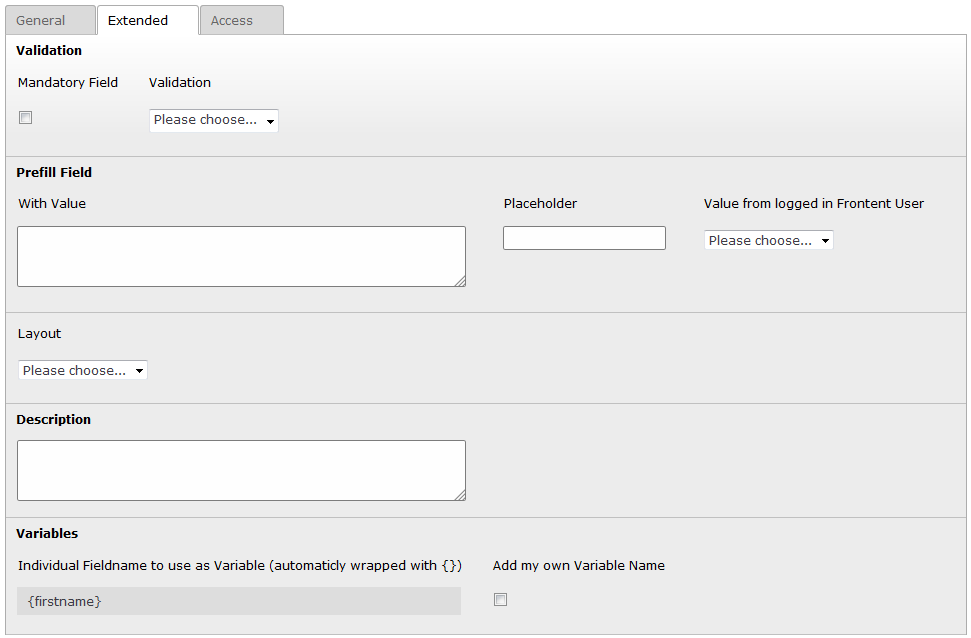
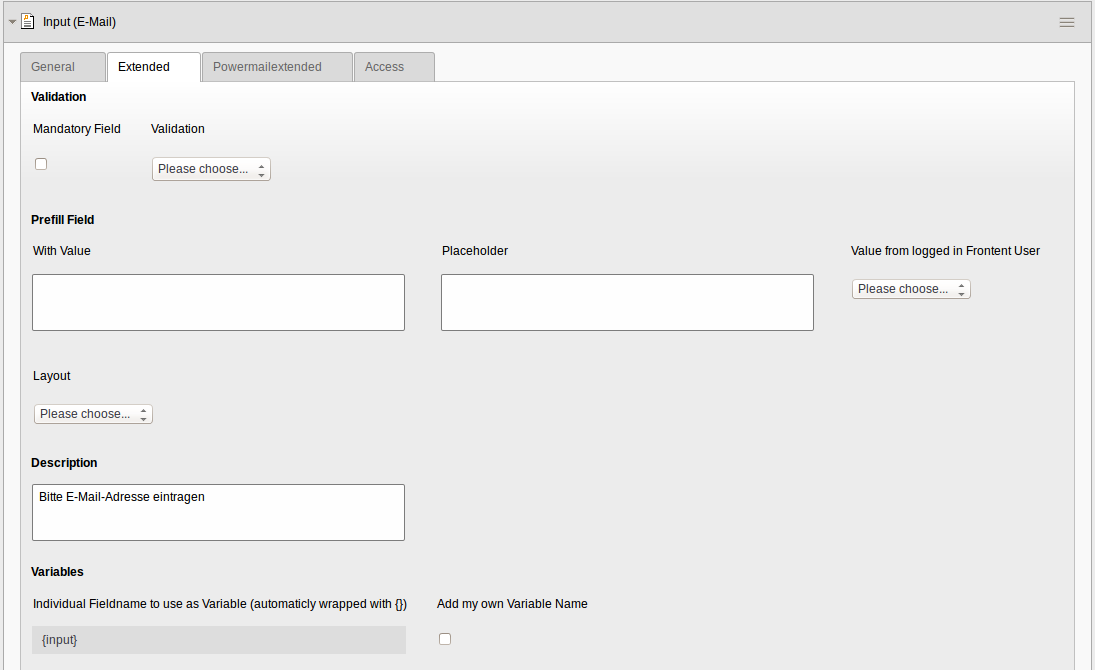
[TASK] Prefill a field description in  manual

diff --git a/Documentation/Faq/Index.rst b/Documentation/Faq/Index.rst
@@ -238,39 +238,9 @@ If you add a powermail plugin, you will see some options in FlexForm. If you wan
 How to prefill a field in the powermail form?
 ---------------------------------------------
 
-Prefilling of fields will be done by the prefillFieldsViewHelper. It
-listen to the following methods and parameters:
-
-1. GET/POST param like &tx\_powermail\_pi1[field][marker]=value
-
-2. GET/POST param like &tx\_powermail\_pi1[marker]=value
-
-3. GET/POST param like &tx\_powermail\_pi1[field][123]=value
-
-4. GET/POST param like &tx\_powermail\_pi1[uid123]=value
-
-5. If field should be filled with values from FE\_User (Flexform Settings)
-
-6. If field should be prefilled from static Flexform Setting
-
-7. Fill with TypoScript cObject like
-
-.. code-block:: text
-
-	plugin.tx_powermail.settings.setup.prefill {
-		# Fill field with marker {email}
-		email = TEXT
-		email.value = mail@domain.org
-	}
-
-8. Fill with TypoScript like
-
-.. code-block:: text
-
-	plugin.tx_powermail.settings.setup.prefill {
-		# Fill field with marker {email}
-		email = mail@domain.org
-	}
+Prefilling or preselecting of fields is very easy - see :ref:`prefillOrPreselectAField`
+With this possibility you can fill a hidden or a visible field with a value or you can
+preselect a select, radio or checkbox.
 
 
 .. _howdonotincludejquery:

diff --git a/Documentation/ForAdministrators/GoodToKnow/PrefillField/Index.rst b/Documentation/ForAdministrators/GoodToKnow/PrefillField/Index.rst
@@ -1,0 +1,44 @@
+.. include:: Images.txt
+.. include:: ../../../Includes.txt
+
+.. _prefillOrPreselectAField:
+
+Prefill or preselect a field
+----------------------------
+
+Prefilling (input, textarea, hidden) or preselecting (select, check, radio)
+of fields will be done by the prefillFieldsViewHelper. It
+listen to the following methods and parameters (in this ordering):
+
+1. GET/POST param like &tx\_powermail\_pi1[field][marker]=value
+
+2. GET/POST param like &tx\_powermail\_pi1[marker]=value
+
+3. GET/POST param like &tx\_powermail\_pi1[field][123]=value
+
+4. GET/POST param like &tx\_powermail\_pi1[uid123]=value
+
+5. If field should be filled with values from FE\_User (Flexform Settings)
+
+6. If field should be prefilled from static Flexform Setting
+
+7. Fill with TypoScript cObject like
+
+.. code-block:: text
+
+	plugin.tx_powermail.settings.setup.prefill {
+		# Fill field with marker {email}
+		email = TEXT
+		email.value = mail@domain.org
+	}
+
+8. Fill with TypoScript like
+
+.. code-block:: text
+
+	plugin.tx_powermail.settings.setup.prefill {
+		# Fill field with marker {email}
+		email = mail@domain.org
+	}
+
+|img-prefill|

diff --git a/Documentation/ForEditors/AddANewForm/FieldTextarea/Index.rst b/Documentation/ForEditors/AddANewForm/FieldTextarea/Index.rst
@@ -121,6 +121,15 @@ Explanation
       Extended
 
  - :Field:
+      Placeholder
+   :Description:
+      Add a placeholder for this input field.
+   :Explanation:
+      A placeholder text is an example, that should help the user to fill out an input field. This text is shown in bright grey within the input field. If you have a name field, you could use the placeholder "John Doe".
+   :Tab:
+      Extended
+
+ - :Field:
       Value from logged in Frontend User
    :Description:
       Check if field should be filled from the FE_Users table of a logged in fe_user.

diff --git a/Documentation/ForAdministrators/GoodToKnow/Index.rst b/Documentation/ForAdministrators/GoodToKnow/Index.rst
@@ -13,6 +13,7 @@ Good to know
 
    Templates/Index
    ChangingLabels/Index
+   PrefillField/Index
    RemoveValuesFromPowermailAll/Index
    UniqueValues/Index
    AjaxSubmit/Index
